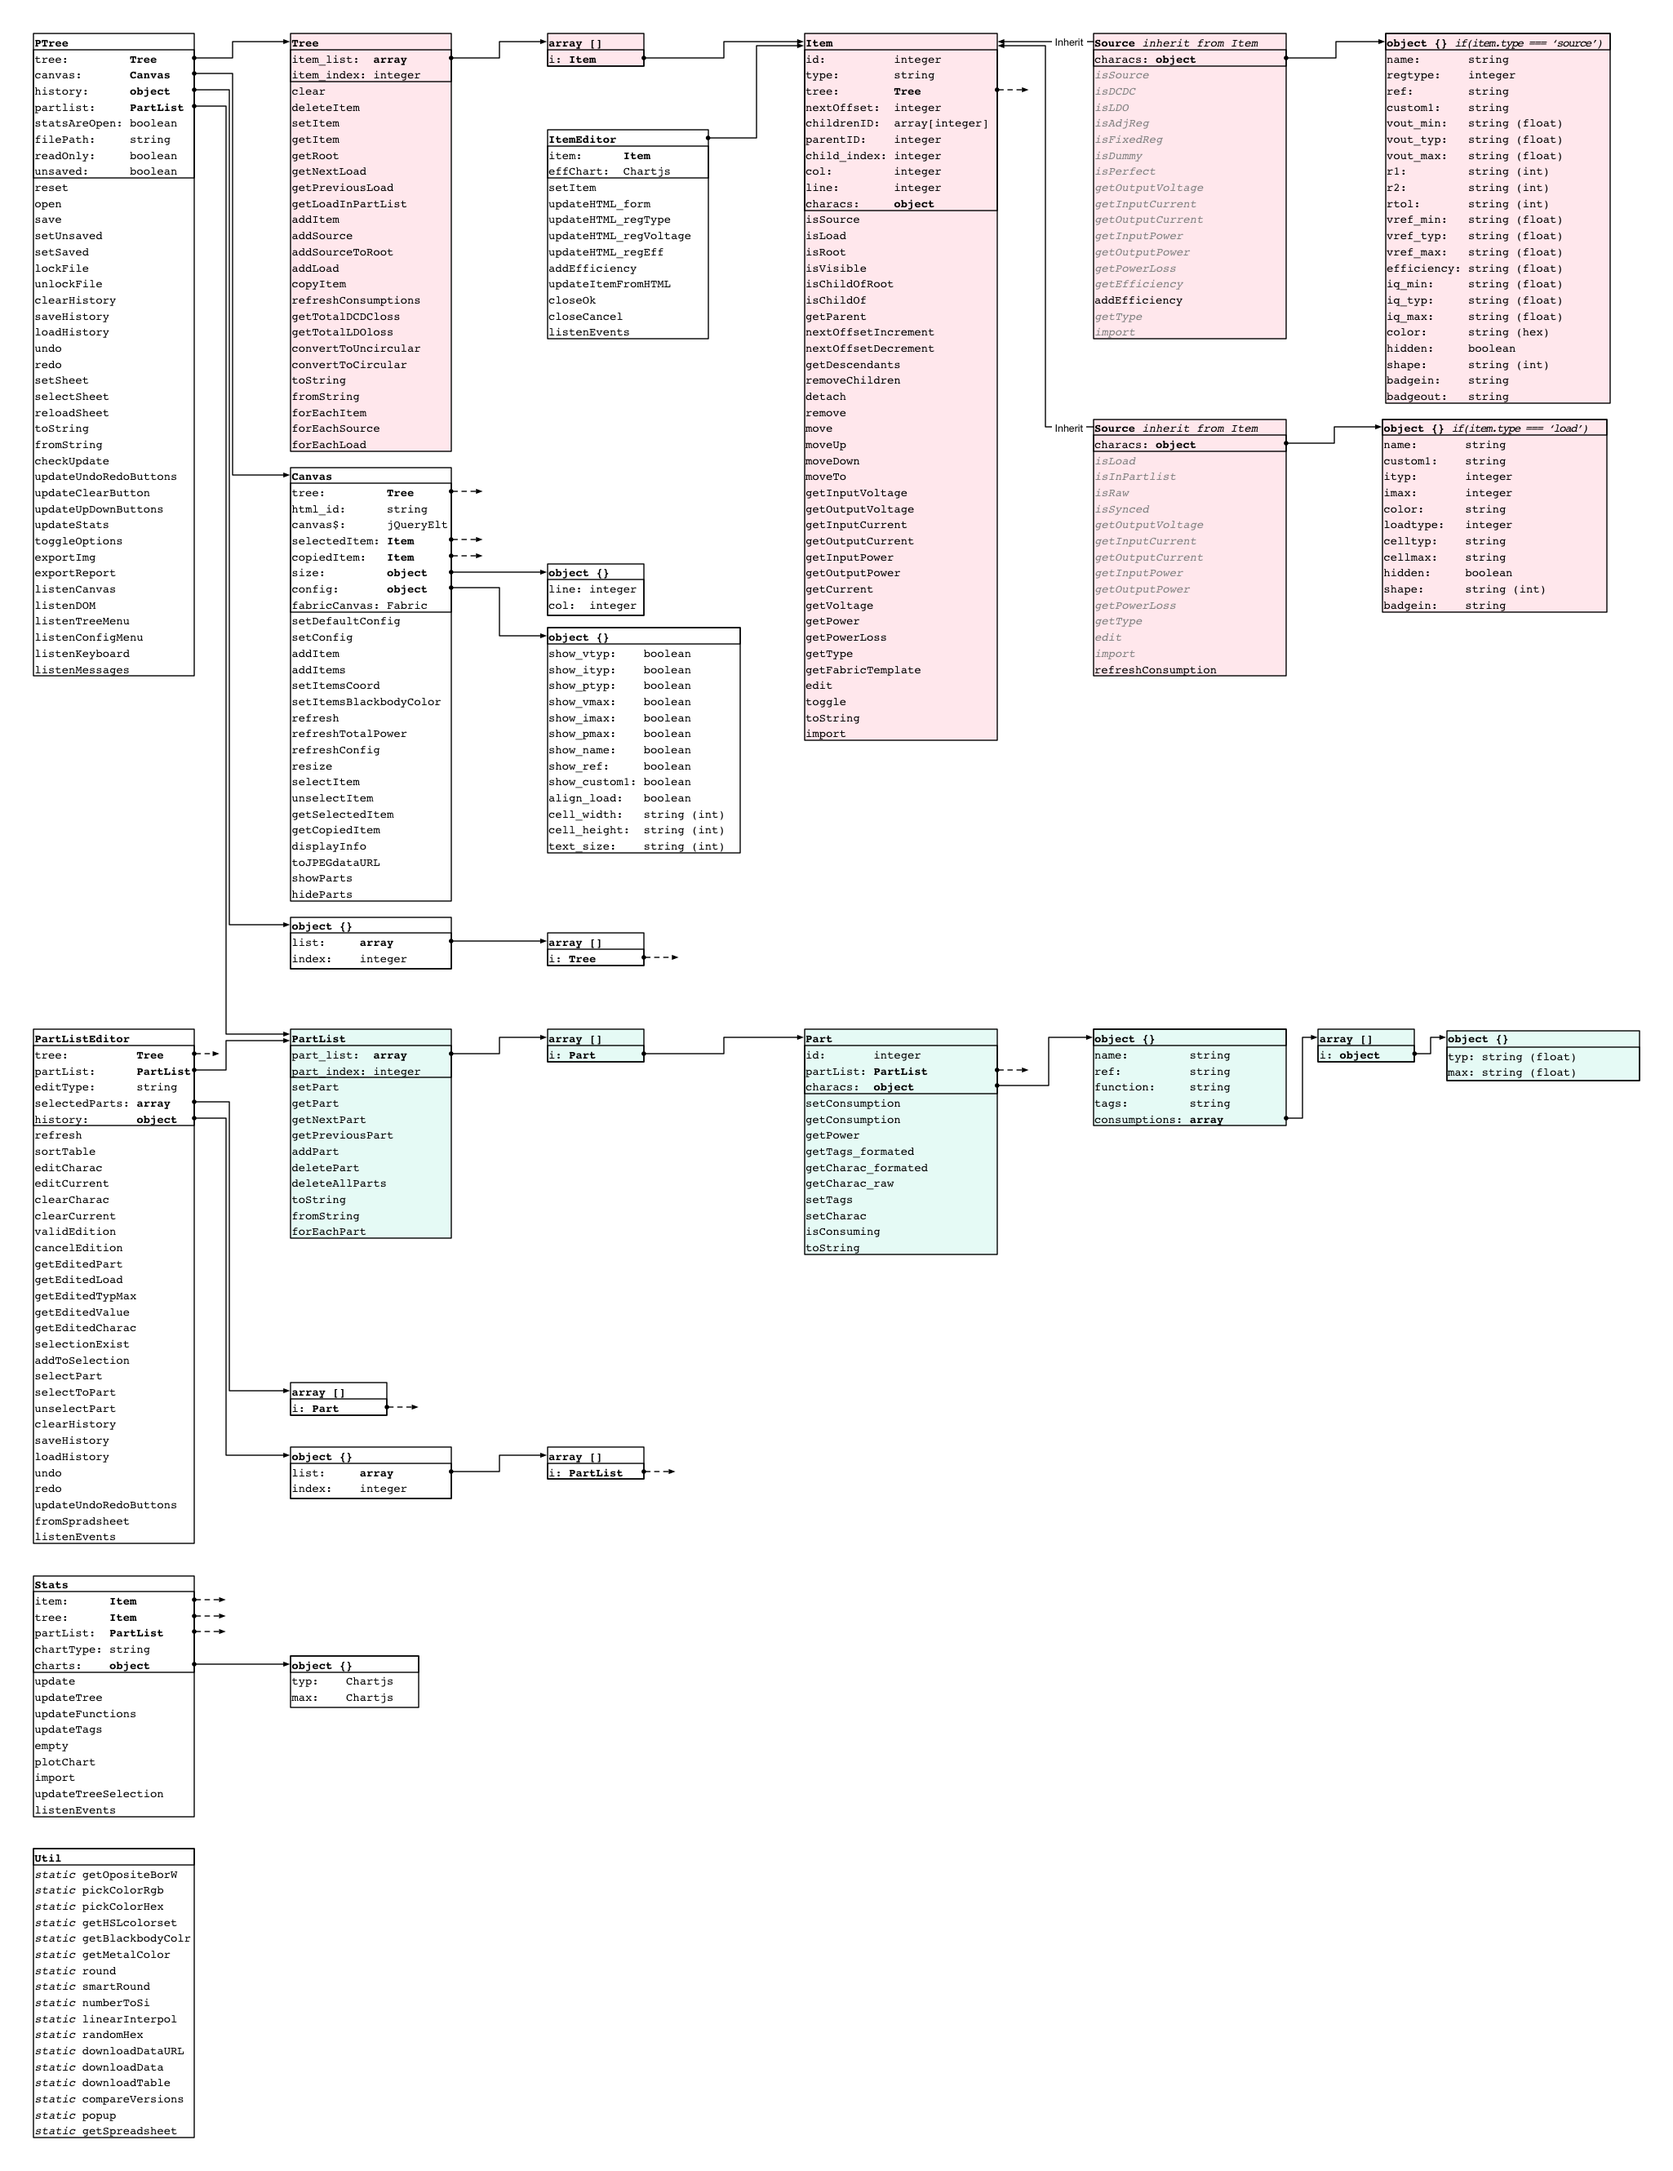
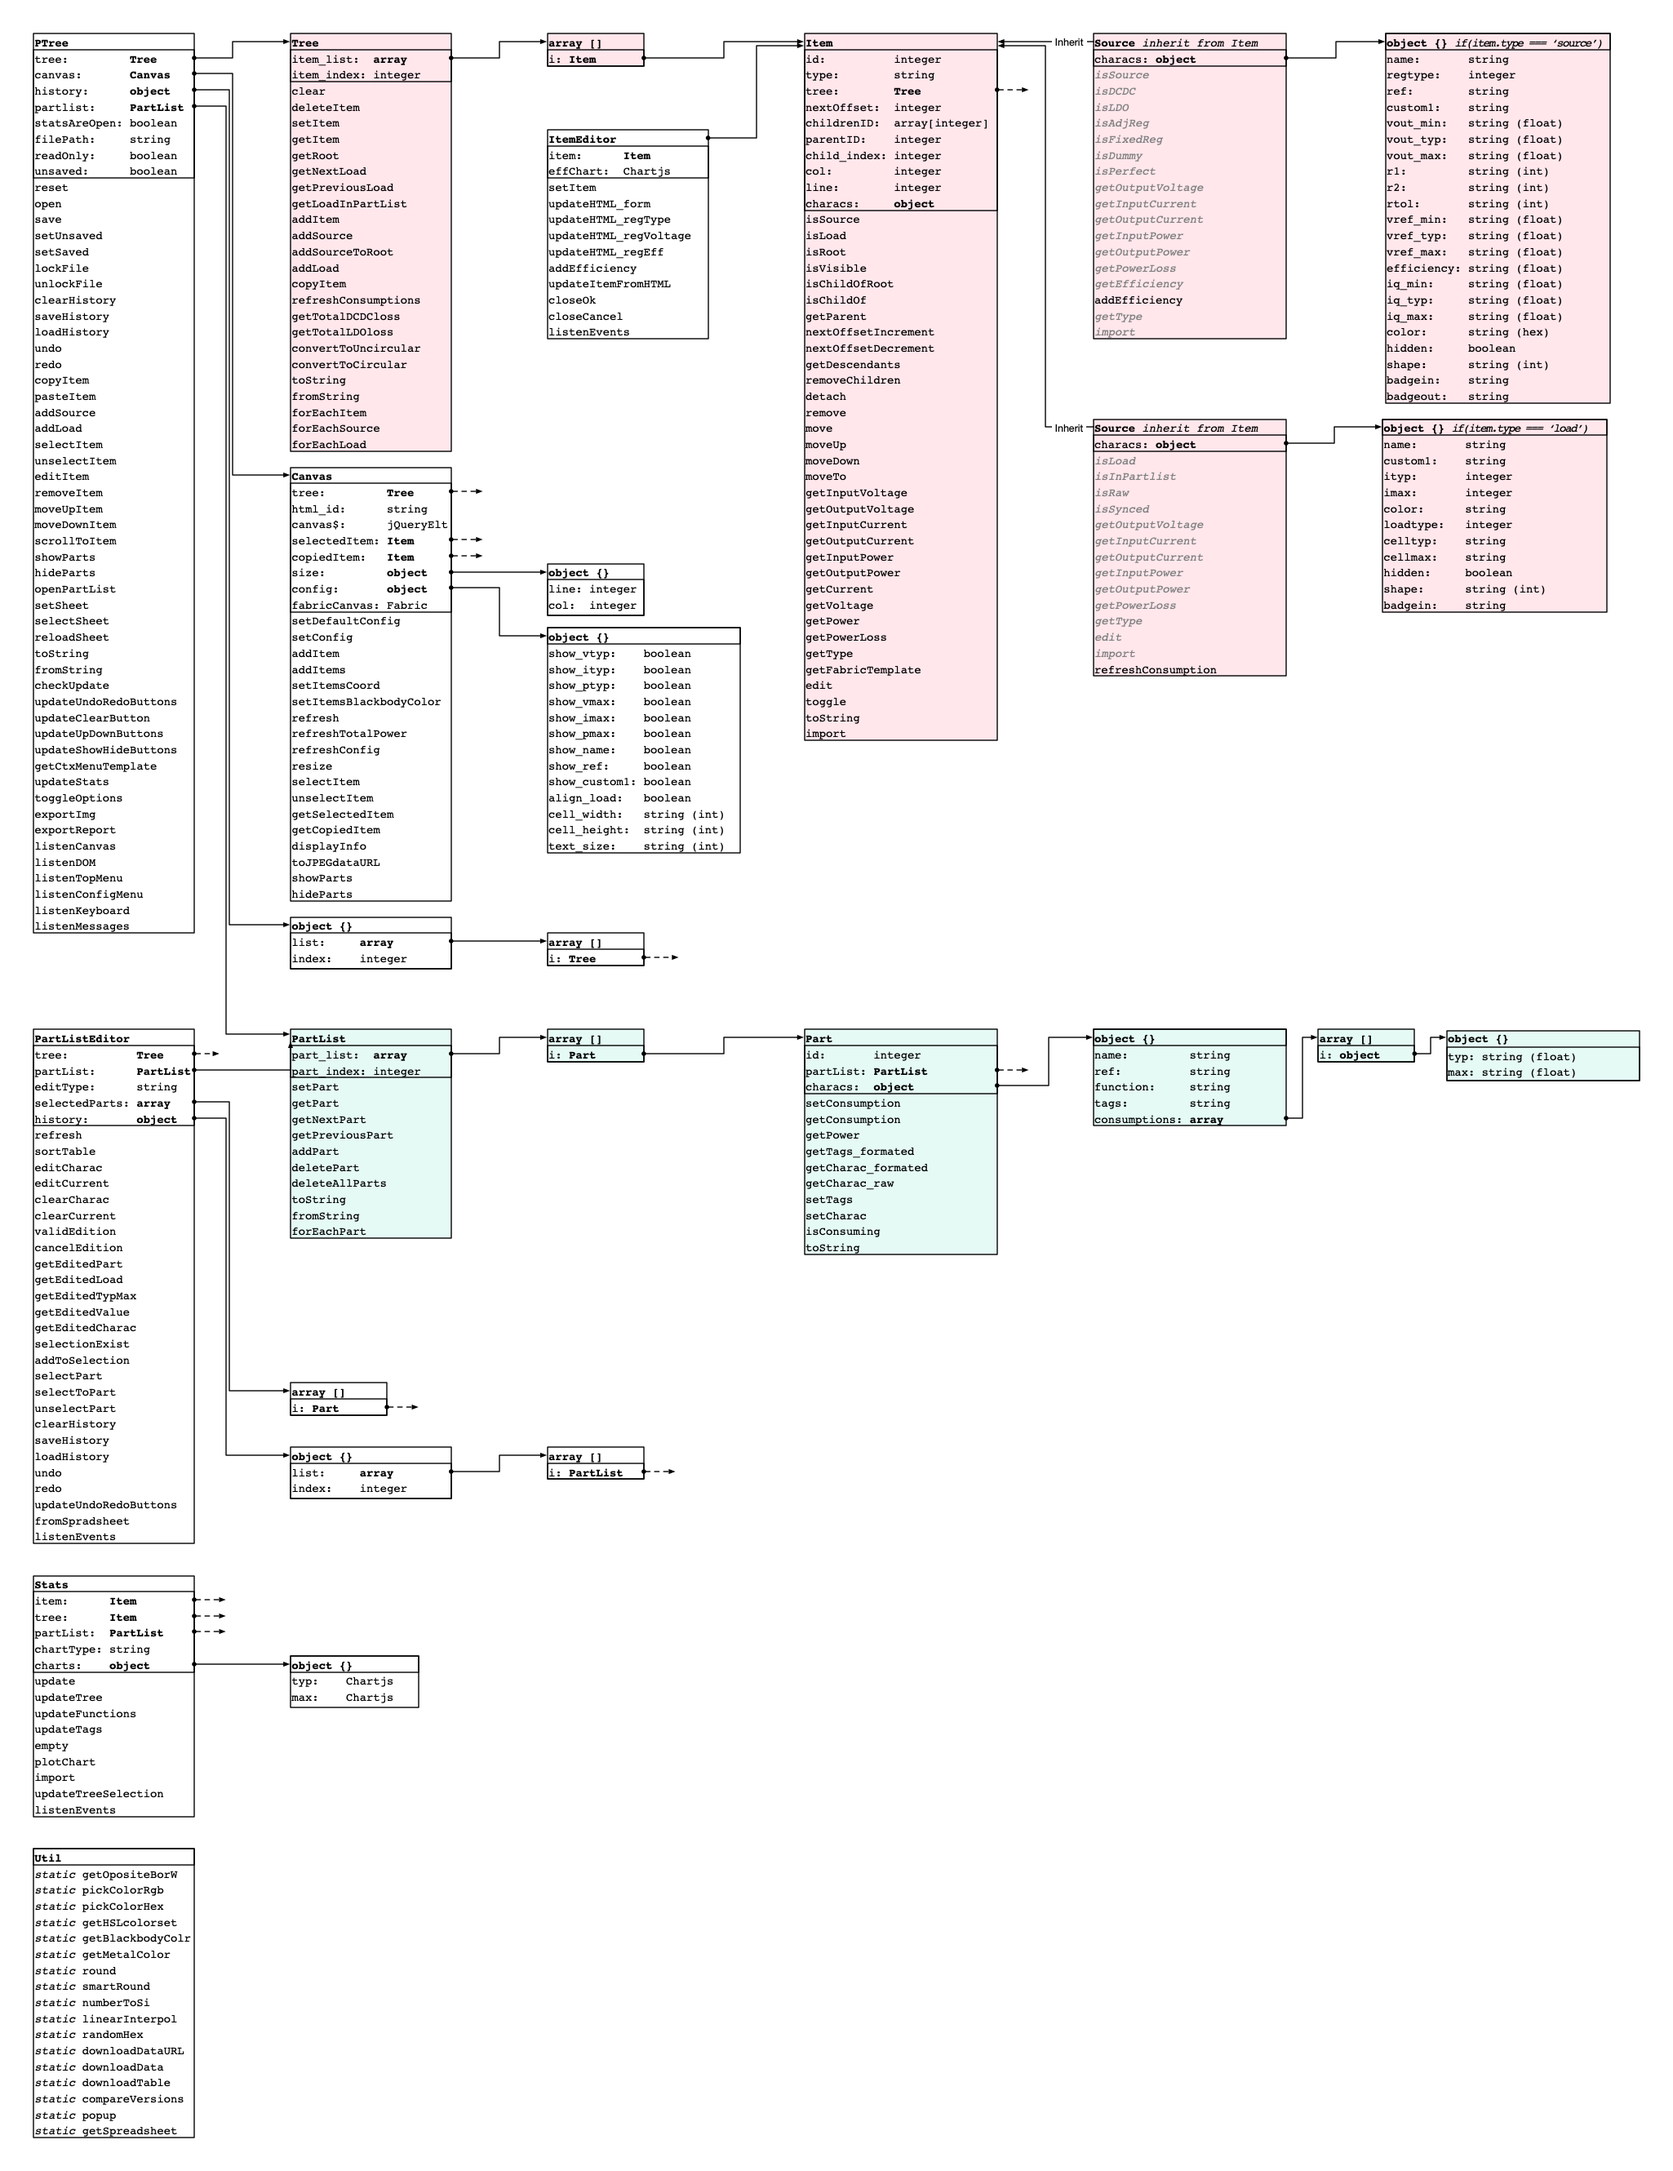
Scroll to item (#65)

Changed region(s): [[0.0, 0.156, 0.0937, 0.4368], [0.0312, 0.9361, 0.0937, 0.9673], [0.1873, 0.3744, 0.2185, 0.4056]]

diff --git a/js/class.PTree.js b/js/class.PTree.js
@@ -359,6 +359,7 @@ class PTree {
     this.updateClearButtons();
     this.saveHistory();
     this.selectItem(newItem);
+    this.scrollToItem(newItem);
   }
 
 
@@ -374,6 +375,7 @@ class PTree {
     this.updateClearButtons();
     this.saveHistory();
     this.selectItem(newItem);
+    this.scrollToItem(newItem);
   }
 
 
@@ -465,6 +467,30 @@ class PTree {
     this.canvas.refresh();
     this.updateUpDownButtons();
     this.saveHistory();
+  }
+
+
+  // scroll to the given item
+  scrollToItem(item) {
+    // get the fabric object
+    let fabric_obj = this.canvas.fabricCanvas.fabric_obj[item.id];
+    // if the fabric object does not exist, exit with error
+    if(undefined == fabric_obj) {
+      console.error('The given object does not exist in the canvas');
+      return false;
+    }
+
+    // compute the real coordinate of the item
+    let zoom = this.canvas.config.zoom/100;
+    let itemCoord = {
+      x: Math.round(this.canvas.canvas$.offset().left + fabric_obj.geometry.xhalf*zoom),
+      y: Math.round(this.canvas.canvas$.offset().top  + fabric_obj.geometry.yhalf*zoom)
+    };
+
+    // change the scroll to set the item on the center of the window
+    window.scrollTo(itemCoord.x - window.innerWidth/2, itemCoord.y - window.innerHeight/2);
+
+    return true;
   }
 
 
